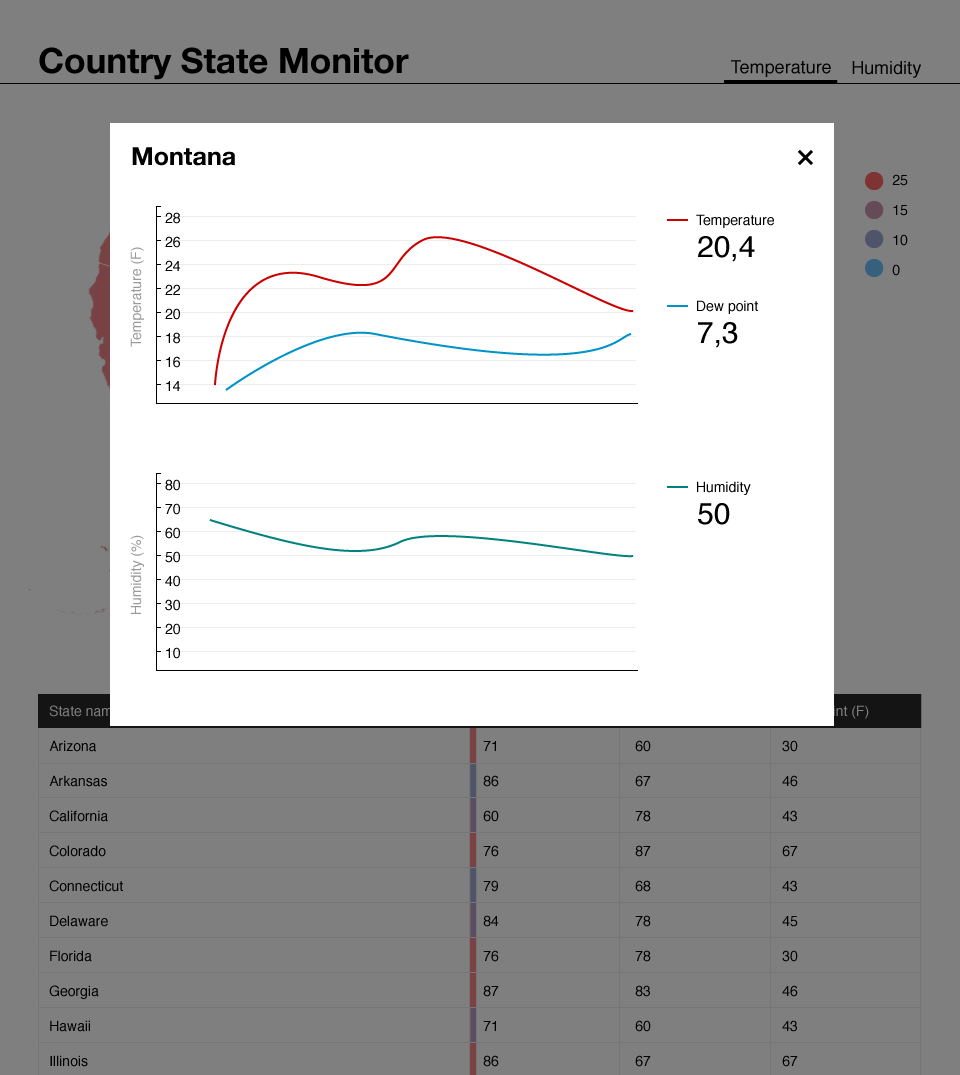
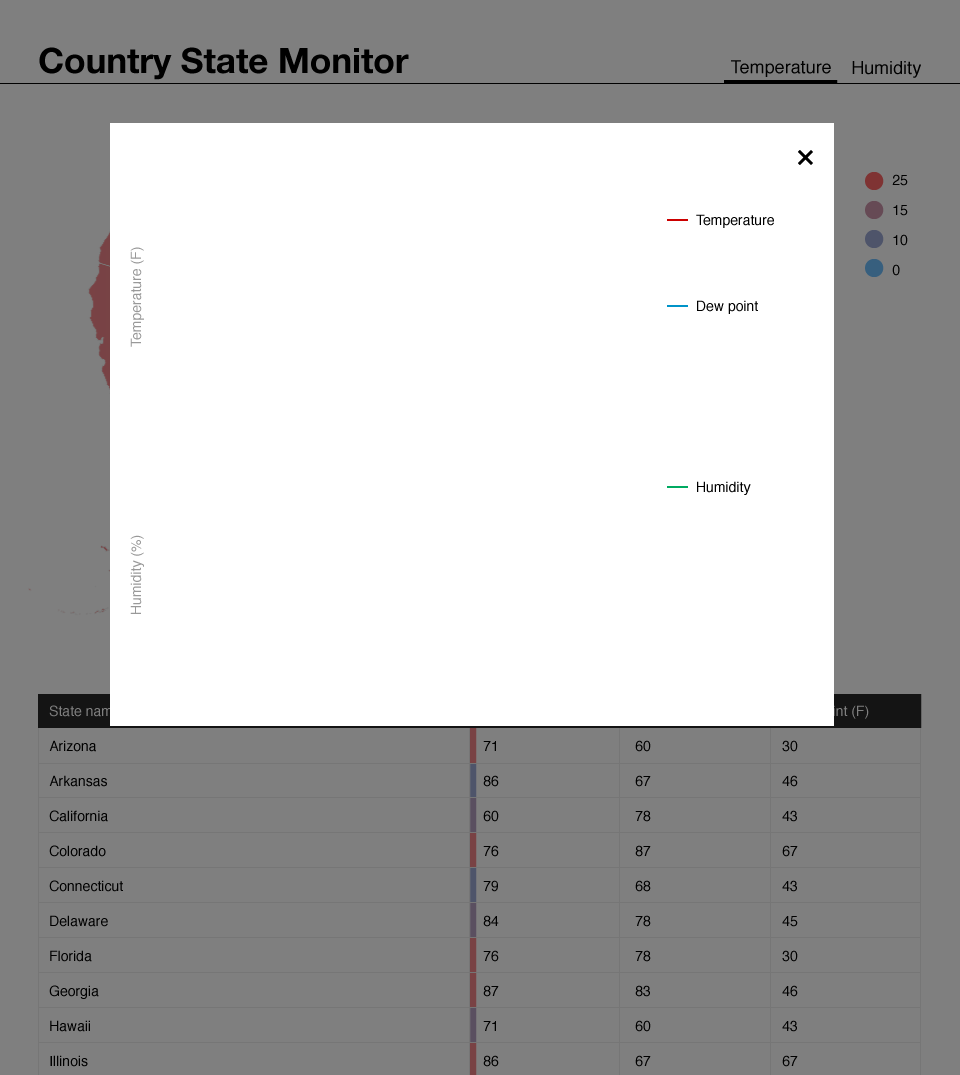
Changed background image and positions of elements.

diff --git a/web-page/i3a.html b/web-page/i3a.html
@@ -43,17 +43,37 @@
 		.grid path {
 			  stroke-width: 0;
 		}
+<<<<<<< 7a3d7d1485bfa6f3045adb67d5142c7f6419820c
 		.values{
 			background-color: transparent;
 			font-size: 1.75em;
 			height: 30px;
 		    margin: 0 auto;
 		}
+=======
+        .values{
+            background-color: transparent;
+            font-size: 1.75em;
+            height: 30px;
+            margin: 0 auto;
+        }
+>>>>>>> Changed background image and positions of elements.
 		#close{
+			background-color: transparent;
+			opacity:0.5;
 		    width: 16px;
 			height: 16px;
 			display: table;
 		    margin: 0 auto;
+		}
+		#state{
+			background-color: transparent;
+			font-size:2em;
+			opacity:0.5;
+		    width: 110px;
+			height: 30px;
+			display: table;
+			margin: 0 auto;
 		}
         </style>
     </head>
@@ -62,13 +82,15 @@
         <div class="graph" style="position: absolute; left: -83px; top: 205px; width: 100%; text-align: center;"></div>
 		<div class="graph2" style="position: absolute; left: -83px; top: 472px; width: 100%; text-align: center;"></div>
 
-	<div style="position: absolute; left: -480px; top: 230px; width: 100%; text-align: right;" id="tempVal" class="values"></div>
-	<div style="position: absolute; left: -480px; top: 321px; width: 100%; text-align: right;" id="dewVal" class="values"></div>
-	<div style="position: absolute; left: -480px; top: 502px; width: 100%; text-align: right;" id="humidityVal" class="values"></div>
-        
-                <div style="position: absolute; right: -326px; top: 150px; width: 100%; text-align: center;">
-                        <div id="close" onClick="window.location.assign('./i3.html')"></div>
-                </div>
+		<div style="position: absolute; left: -83px; top: 232px; width: 100%; text-align: center;"><div style="width: 700px; text-align: right" id="tempVal" class="values"></div> </div>
+		<div style="position: absolute; left: -107px; top: 321px; width: 100%; text-align: center;"><div style="width: 700px; text-align: right" id=dewVal class="values"></div></div>
+		<div style="position: absolute; left: -77px; top: 500px; width: 100%; text-align: center;"><div style="width: 700px; text-align: right" id=humidityVal class="values"></div></div>
+		<div style="position: absolute; left: 325px; top: 150px; width: 100%; text-align: center; z-index: 9999;">
+			<div id="close" onclick="window.location.assign('./i3.html')"></div>
+		</div>
+		<div style="position: absolute; left: -296px; top: 140px; width: 100%; text-align: center; ">
+			<div id="state"></div>
+		</div>
 
 	<script src="http://d3js.org/d3.v3.min.js"></script>
 		<script src="jquery.js"></script>
@@ -282,6 +304,7 @@
 				var pair = vars[i].split("=");
 				if (pair[0] === "state") {
 					stateFromQuery = decodeURIComponent(pair[1]);
+					$('#state').html(stateFromQuery);
 				}
 			}
 		});
